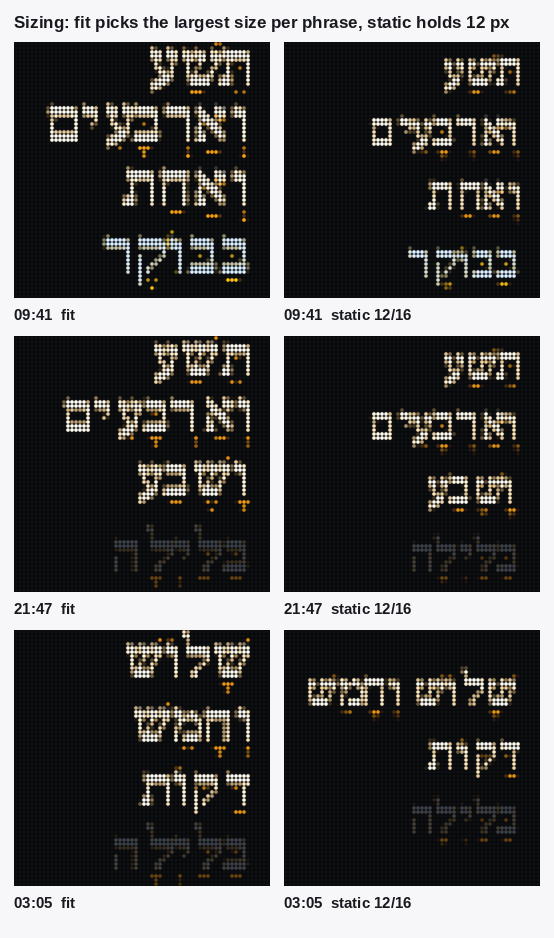
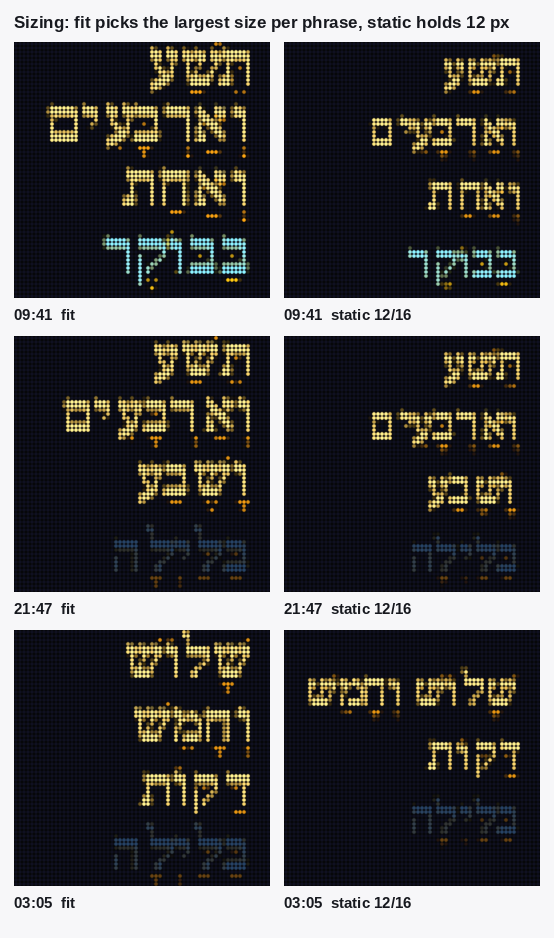
Dim the frame between sunset and sunrise
The clock had no dimming at all: no sun times, no brightness path, and no way to
configure one. This adds it.

- night_dim {enabled, percent}: percent scales the finished 64x64 frame. The
  device's own luminance is never touched, so it keeps whatever brightness was
  set on it.
- Sunrise and sunset come from Open-Meteo's daily block, located by explicit
  latitude/longitude or by ipinfo once a day when location is 'auto'. The times
  are cached per local date in ~/.cache/tuneshine-shaon-millim/sun.json, so a
  once-a-minute cron makes two requests a day, not 1,440.
- A failed fetch keeps the previous day's times, which are a minute out at most,
  rather than jumping to full brightness. No position means no dimming, never a
  stuck dim panel.
- --push prints [night 10%] or [day 100%]; --brightness previews a level.

Dimming runs on the composed frame, not on the palette. Dimming the palette first
was the obvious implementation and it was wrong: _line_tile cuts its mask at an
absolute luminance, so at 10% the period colour (3,6,9) fell under the cut, every
tile came back empty, and the frame rendered as a blank background. A test now
covers that.

Also: shabbat is the default preset, in the code, the example config and the
docs, so the shipped look is the one this clock was tuned against.

Tests: 73, up from 59. Boundaries (sunset inclusive, sunrise exclusive), off, no
data, unparsable times, clamping, the cache being used without a request, a stale
[…]

diff --git a/test_shaon_millim.py b/test_shaon_millim.py
@@ -12,10 +12,12 @@ import io
 import json
 import os
 import tempfile
+import time
 import socket
 import struct
 import sys
 import unittest
+from datetime import datetime
 
 from PIL import Image
 
@@ -461,8 +463,13 @@ class TestExampleConfig(Base):
 
     def test_the_example_has_every_documented_key(self):
         expected = {"devices", "mdns_timeout", "label", "timezone", "respect_playback",
-                    "colors", "render", "fonts"}
+                    "colors", "render", "fonts", "location", "latitude", "longitude",
+                    "night_dim"}
         self.assertEqual(set(self.cfg), expected)
+
+    def test_night_defaults_match_the_code(self):
+        for key, expected in sm.NIGHT_DIM_DEFAULT.items():
+            self.assertEqual(self.cfg["night_dim"].get(key), expected, key)
 
     def test_the_example_is_valid_for_the_renderer(self):
         img, info = sm.render(9, 41, {"colors": self.cfg["colors"],
@@ -521,6 +528,125 @@ class TestPushUsesDiscovery(Base):
         _code, seen = self._run([{"name": "x", "host": "10.0.0.5", "txt": {}}],
                                 {"mdns_timeout": 2.5})
         self.assertEqual(seen["wait"], 2.5)
+
+
+class TestNightDim(Base):
+    """Sunset and sunrise scale the frame's pixels. Device luminance is never touched."""
+
+    SUN = {"sunrise": "2026-10-19T07:11", "sunset": "2026-10-19T18:09", "date": "2026-10-19"}
+
+    def setUp(self):
+        super().setUp()
+        self.dir = tempfile.TemporaryDirectory()
+        self.addCleanup(self.dir.cleanup)
+        original_dir, original_file = sm.STATE_DIR, sm.SUN_STATE
+        sm.STATE_DIR = self.dir.name
+        sm.SUN_STATE = os.path.join(self.dir.name, "sun.json")
+        self.addCleanup(setattr, sm, "STATE_DIR", original_dir)
+        self.addCleanup(setattr, sm, "SUN_STATE", original_file)
+
+    def _bright(self, at, **night):
+        cfg = {"night_dim": {"enabled": True, "percent": 10, **night}}
+        return sm.night_brightness(cfg, self.SUN, datetime(*at))
+
+    def _stub_fetch(self, result):
+        original = sm.fetch_sun
+        calls = []
+
+        def fake(lat, lon):
+            calls.append((lat, lon))
+            return result
+
+        sm.fetch_sun = fake
+        self.addCleanup(setattr, sm, "fetch_sun", original)
+        return calls
+
+    def test_daylight_is_full_brightness(self):
+        for at in ((2026, 10, 19, 12, 0), (2026, 10, 19, 7, 11), (2026, 10, 19, 18, 8)):
+            self.assertEqual(self._bright(at), (100, False), at)
+
+    def test_night_is_the_configured_percent(self):
+        for at in ((2026, 10, 19, 18, 9), (2026, 10, 19, 23, 30),
+                   (2026, 10, 19, 0, 30), (2026, 10, 19, 7, 10)):
+            self.assertEqual(self._bright(at), (10, True), at)
+
+    def test_sunset_is_inclusive_and_sunrise_is_exclusive(self):
+        self.assertEqual(self._bright((2026, 10, 19, 18, 9)), (10, True))
+        self.assertEqual(self._bright((2026, 10, 19, 7, 11)), (100, False))
+
+    def test_switching_it_off_leaves_the_frame_alone(self):
+        cfg = {"night_dim": {"enabled": False, "percent": 10}}
+        self.assertEqual(sm.night_brightness(cfg, self.SUN, datetime(2026, 10, 19, 23, 30)),
+                         (100, False))
+
+    def test_missing_or_unparsable_times_never_dim(self):
+        cfg = {"night_dim": {"enabled": True, "percent": 10}}
+        at = datetime(2026, 10, 19, 23, 30)
+        self.assertEqual(sm.night_brightness(cfg, None, at), (100, False))
+        self.assertEqual(sm.night_brightness(cfg, {"sunrise": None, "sunset": "x"}, at), (100, False))
+        self.assertEqual(sm.night_brightness(cfg, {"sunrise": "nope", "sunset": "also"}, at),
+                         (100, False))
+
+    def test_percent_is_clamped_and_junk_falls_back_to_full(self):
+        self.assertEqual(self._bright((2026, 10, 19, 23, 30), percent=-20), (0, True))
+        self.assertEqual(self._bright((2026, 10, 19, 23, 30), percent=250), (100, True))
+        self.assertEqual(self._bright((2026, 10, 19, 23, 30), percent="dark"), (100, False))
+
+    def test_dimming_a_frame_scales_every_channel(self):
+        img = Image.new("RGB", (1, 1))
+        img.putpixel((0, 0), (200, 100, 50))
+        self.assertEqual(sm.dim_frame(img, 50).getpixel((0, 0)), (100, 50, 25))
+        self.assertIs(sm.dim_frame(img, 100), img)
+
+    def test_a_heavily_dimmed_frame_still_draws_the_text(self):
+        """Dimming the palette used to erase the frame: _line_tile cuts its mask at
+        an absolute luminance, so a dim palette fell under it and every line was
+        dropped. Dimming the finished frame keeps the geometry."""
+        cfg = {"colors": {"preset": "shabbat"}, "render": {"sizing": "static", "size": 12}}
+        full, _ = sm.render(0, 14, cfg, brightness=100)
+        dim, _ = sm.render(0, 14, cfg, brightness=10)
+        self.assertGreater(full.convert("L").getextrema()[1], 100)
+        self.assertGreater(dim.convert("L").getextrema()[1], 0, "text vanished")
+        self.assertLess(dim.convert("L").getextrema()[1], full.convert("L").getextrema()[1] // 3)
+
+    def test_a_dimmed_frame_carries_less_light(self):
+        cfg = {"colors": {"preset": "shabbat"}, "render": {"sizing": "static", "size": 12}}
+
+        def total(img):
+            return sum(sum(px) for px in img.convert("RGB").getdata())
+
+        bright, _ = sm.render(9, 41, cfg, brightness=100)
+        dim, info = sm.render(9, 41, cfg, brightness=20)
+        self.assertEqual(info["brightness"], 20)
+        self.assertLess(total(dim), total(bright) * 0.35)
+        self.assertGreater(total(dim), 0, "a dim frame is not a blank frame")
+
+    def test_todays_times_are_served_from_the_cache_without_a_request(self):
+        sm.save_sun_state(dict(self.SUN))
+        self._stub_fetch(self.fail)     # any fetch is a bug
+        self.assertEqual(sm.sun_times({}, now=datetime(2026, 10, 19, 12, 0)), self.SUN)
+
+    def test_a_failed_fetch_keeps_the_previous_days_times(self):
+        sm.save_sun_state({"sunrise": "2026-10-18T07:07", "sunset": "2026-10-18T18:15",
+                           "date": "2026-10-18", "latitude": 40.7, "longitude": -74.0,
+                           "located_at": time.time()})
+        self._stub_fetch(None)
+        got = sm.sun_times({}, now=datetime(2026, 10, 19, 12, 0))
+        self.assertEqual((got["sunrise"], got["sunset"]), ("2026-10-18T07:07", "2026-10-18T18:15"))
+
+    def test_a_stale_cache_is_refetched_and_written_back(self):
+        sm.save_sun_state({"sunrise": "2026-10-18T07:07", "sunset": "2026-10-18T18:15",
+                           "date": "2026-10-18", "latitude": 40.7, "longitude": -74.0,
+                           "located_at": time.time()})
+        self._stub_fetch({"sunrise": "2026-10-19T07:11", "sunset": "2026-10-19T18:09",
+                          "date": "2026-10-19"})
+        got = sm.sun_times({}, now=datetime(2026, 10, 19, 12, 0))
+        self.assertEqual(got["sunrise"], "2026-10-19T07:11")
+        self.assertEqual(sm.load_sun_state()["sunrise"], "2026-10-19T07:11")
+
+    def test_location_off_disables_the_lookup(self):
+        self._stub_fetch(self.fail)
+        self.assertIsNone(sm.sun_times({"location": "off"}, now=datetime(2026, 10, 19, 12, 0)))
 
 
 if __name__ == "__main__":

diff --git a/README.md b/README.md
@@ -31,6 +31,9 @@ by Yanek Iontef, used under the SIL Open Font Licence. The licence text is in
 - Pillow, built with libraqm. Raqm is what shapes Hebrew correctly, including the
   vowel points.
 - A Tuneshine on the same network, reachable by HTTP.
+- `requests`, for talking to the panel. Night dimming also uses it to look up
+  sunrise and sunset, which needs internet; without it the clock stays at full
+  brightness.
 
 ```
 pip install pillow
@@ -123,7 +126,7 @@ values.
 | `label` | `"Hebrew word clock"` | Artist name shown on the device for this image. |
 | `timezone` | `"local"` | `local`, or an IANA name such as `Asia/Jerusalem`. |
 | `respect_playback` | `true` | Skip the upload while the panel is playing music. |
-| `colors.preset` | `"oled-warm"` | One of the presets in [Colours](#colours). |
+| `colors.preset` | `"shabbat"` | One of the presets in [Colours](#colours). |
 | `colors.background` | `null` | Hex override for the panel background. |
 | `colors.letter` | `null` | Hex override for the letters. |
 | `colors.nikkud` | `null` | Hex override for the vowel points. |
@@ -138,6 +141,11 @@ values.
 | `render.antialias` | `true` | `false` snaps every pixel to a palette colour. |
 | `fonts.path` | `null` | Font file to use. `null` means the bundled one. |
 | `fonts.weight` | `null` | Named instance, for example `Bold`. |
+| `location` | `"auto"` | `auto` looks the panel's position up by IP, `off` disables it. |
+| `latitude` | `null` | Set to skip the lookup and pin the position. |
+| `longitude` | `null` | As above. |
+| `night_dim.enabled` | `true` | Dim the frame between sunset and sunrise. |
+| `night_dim.percent` | `10` | Frame brightness at night, 0-100. |
 
 A `null` in the colours block means "keep the preset's colour", not "no colour".
 
@@ -235,10 +243,10 @@ points, and the day-period word (*בבוקר*, *בערב*, *בלילה*). Seven 
 
 | preset | look |
 |---|---|
-| `oled-warm` | warm white letters, amber points, grey period. The default |
+| `oled-warm` | warm white letters, amber points, grey period |
 | `eink` | dark letters on paper grey, for a printed look |
 | `cyber` | cyan letters, rose points, violet period |
-| `shabbat` | amber letters on deep blue, with a blue period |
+| `shabbat` | amber letters on deep blue, with a blue period. The default |
 | `emerald` | near-white letters, green points |
 | `crimson-night` | pale rose letters, crimson points |
 | `dynamic` | changes with the hour of the day |
@@ -248,7 +256,7 @@ Any layer can be overridden with a hex value, whatever the preset:
 
 ```json
 "colors": {
-  "preset": "oled-warm",
+  "preset": "shabbat",
   "letter": "#E8F0FF",
   "nikkud": "#38BDF8"
 }
@@ -256,6 +264,43 @@ Any layer can be overridden with a hex value, whatever the preset:
 
 A layer left at `null` keeps the preset's colour. `colors.period_luminance`
 dims the day-period word so the time itself leads.
+
+
+## Night dimming
+
+The frame can dim between sunset and sunrise. This never touches the panel's own
+luminance setting: the 64x64 frame the device receives is scaled, so the device keeps
+whatever brightness you set on it.
+
+```json
+"night_dim": { "enabled": true, "percent": 10 }
+```
+
+Sunrise and sunset come from Open-Meteo's daily block, for the panel's position. Set
+`latitude` and `longitude` to pin it, or leave them and `location: "auto"` asks ipinfo
+once a day, caching the answer in `~/.cache/tuneshine-shaon-millim/sun.json`.
+`location: "off"` skips the lookup, and with no position there is no dimming.
+
+The times are cached per local date, so a once-a-minute cron makes two requests a day
+rather than 1,440. A failed fetch keeps the previous day's times, which are a minute
+out at most, instead of jumping to full brightness.
+
+`--push` says which side of sunset it landed on:
+
+```
+00:14  static · 12px · 2 lines  [night 10%]  חצות וארבע עשרה
+```
+
+Measured on the `shabbat` preset, the brightest pixel at each level is 10% (25,23,13),
+30% (75,69,41), 50% (126,115,69), against a background of (0,1,3) at 10%. At 10% the
+panel is a night light you read from close by; 30% is where the letters carry across a
+dark room. Percent 0 draws a black frame and the panel looks off.
+
+Preview a level without editing the config:
+
+```sh
+python3 shaon_millim.py --time 23:30 --brightness 30 --simulate --out night.png
+```
 
 ## How the Hebrew works
 
